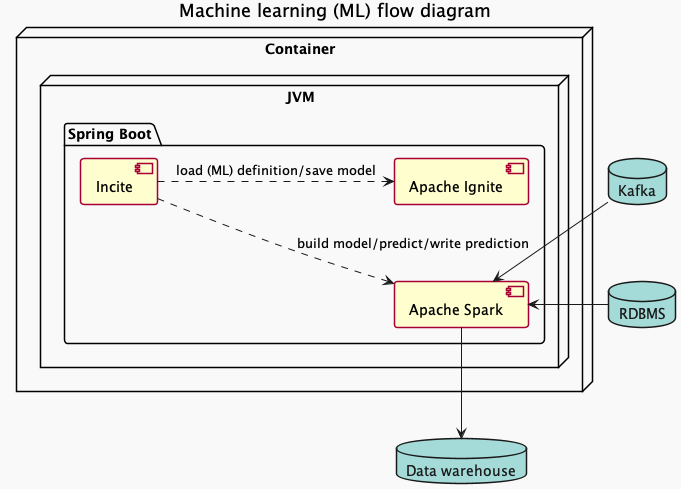
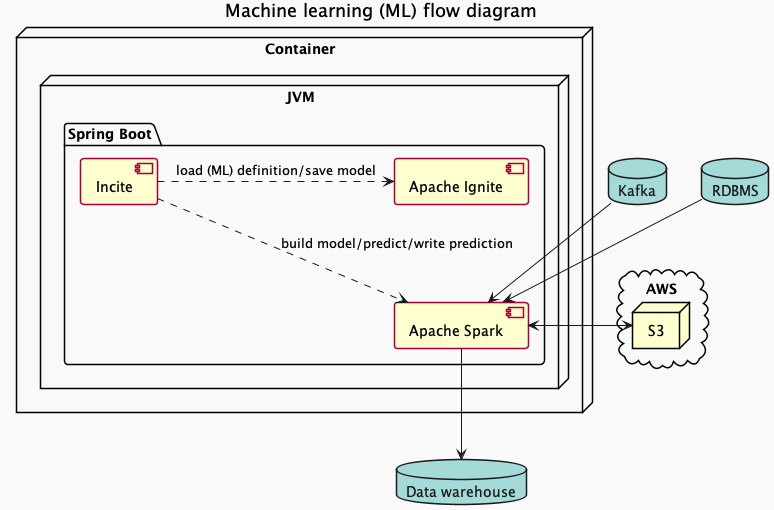
Add FileSource JsonSubType, FileSink JsonSubType and StreamingWrapper JsonSubType
- Improve aggregate_flow_diagram.puml & ml_flow_diagram.puml
- Add messages_exchange_flow_diagram.puml

Changed region(s): [[0.0, 0.0, 1.0, 0.8282], [0.4934, 0.8589, 0.8018, 1.0], [0.2775, 0.4294, 0.3084, 0.4601]]

diff --git a/incite-data/src/main/kotlin/io/openenterprise/incite/data/domain/Sink.kt b/incite-data/src/main/kotlin/io/openenterprise/incite/data/domain/Sink.kt
@@ -12,9 +12,11 @@ import java.util.*
 )
 @JsonSubTypes(
     value = [
+        JsonSubTypes.Type(value = FileSink::class, name = "FileSink"),
         JsonSubTypes.Type(value = IgniteSink::class, name = "IgniteSink"),
         JsonSubTypes.Type(value = JdbcSink::class, name = "JdbcSink"),
-        JsonSubTypes.Type(value = KafkaSink::class, name = "KafkaSink")
+        JsonSubTypes.Type(value = KafkaSink::class, name = "KafkaSink"),
+        JsonSubTypes.Type(value = StreamingWrapper::class, name = "StreamingWrapper")
     ]
 )
 abstract class Sink {

diff --git a/incite-data/src/main/kotlin/io/openenterprise/incite/data/domain/Source.kt b/incite-data/src/main/kotlin/io/openenterprise/incite/data/domain/Source.kt
@@ -10,6 +10,7 @@ import com.fasterxml.jackson.annotation.JsonTypeInfo
 )
 @JsonSubTypes(
     value = [
+        JsonSubTypes.Type(value = FileSource::class, name = "FileSource"),
         JsonSubTypes.Type(value = JdbcSource::class, name = "JdbcSource"),
         JsonSubTypes.Type(value = KafkaSource::class, name = "KafkaSource")
     ]
